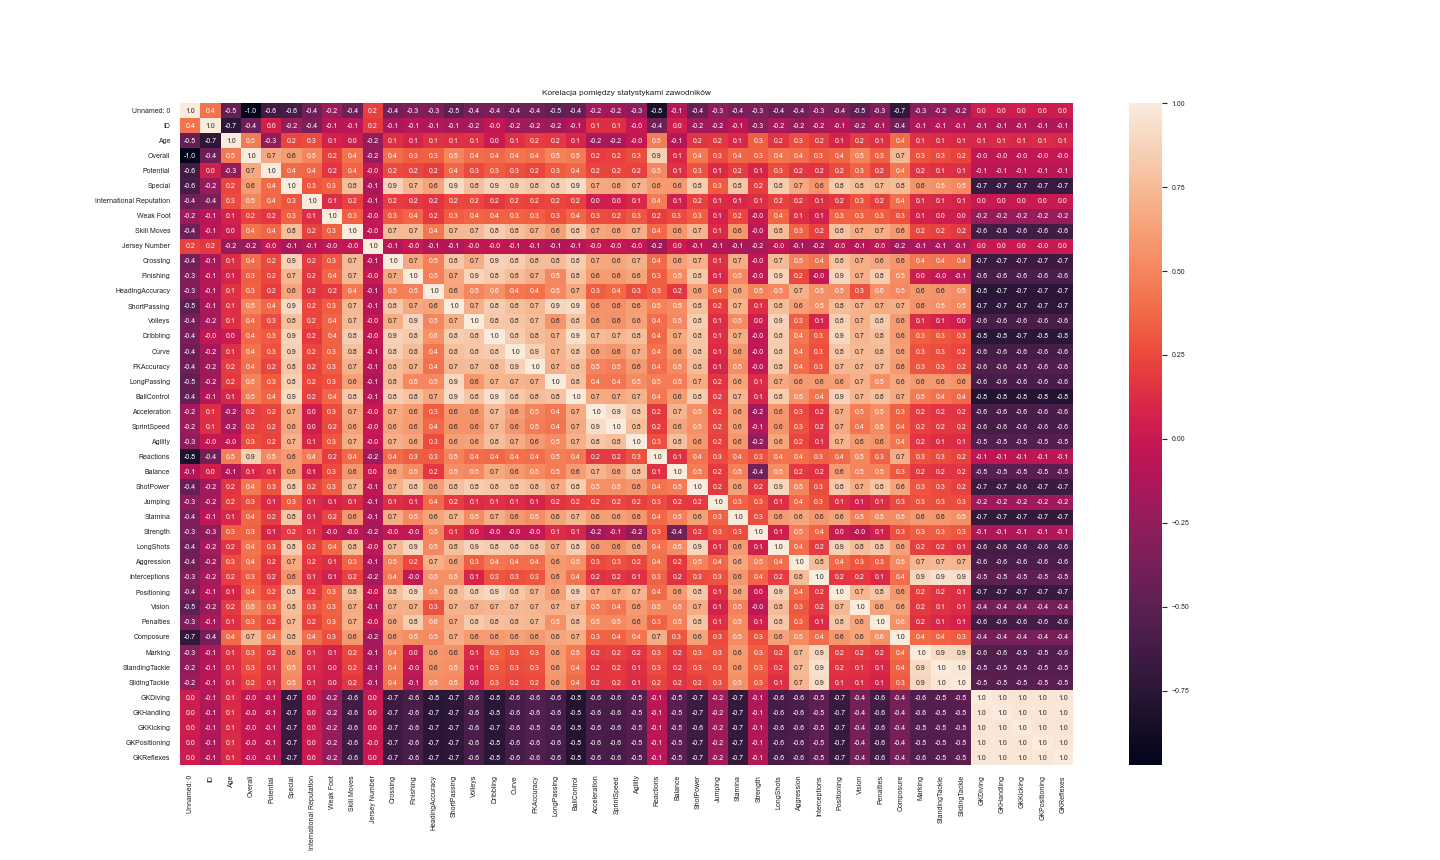
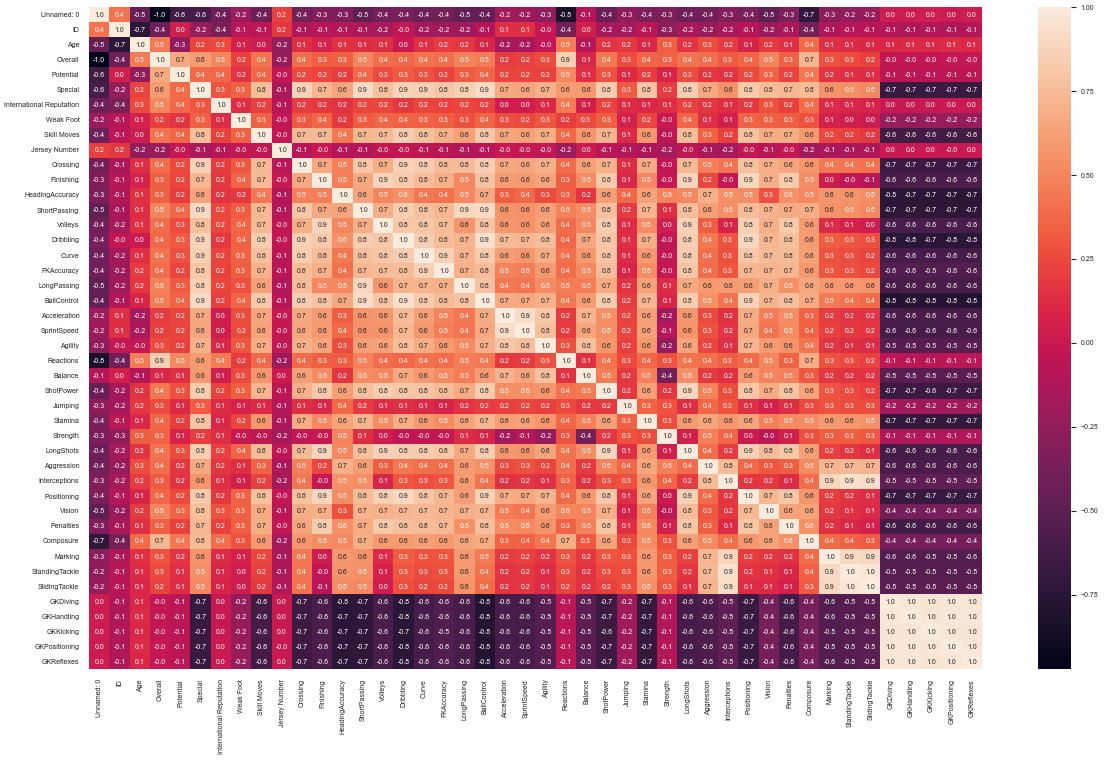
new

diff --git a/Inzynierka/Dane/templates/Dane/dashboard.html b/Inzynierka/Dane/templates/Dane/dashboard.html
@@ -2,12 +2,24 @@
 
 {% block content  %}
         <div id="dashboard">
-        <h1>Praca inżynierska</h1>
-        <h2>Temat: Analiza danych w nowoczesnym futbolu.</h2>
-        <h2>Autor: Mikołaj Bozik</h2>
-        <h3> Opis projektu</h3>
+        <div style="transform:skew(-30deg); width:83%;"><div id="das_left">
+               <div style="padding:2%;"><h2>PRACA INŻYNIERSKA</h2>
+                <hr style=" width: 72%;
+    margin-left: 14%;
+    margin-top: 0;
+    border-color: #B1B1B1;">
+                <h5>Temat: Analiza danych w nowoczesnym futbolu.</h5>
+                <hr style="width:60%; margin-left:20%;">
+                <h5>Autor: Mikołaj Bozik</h5></div>
+        </div></div>
+        <div style="transform:skew(30deg); width:83%; margin-top:1.2%; "><div id="das_right"><div style="padding:4%;">
+        <h5> Opis projektu</h5>
+        <hr style="width:26%; margin-left:1%;">
         <p>Zrealizowanie bazy danych zawierającej informacje o szczegółowych statystykach związanych z czołowymi piłkarzami największych klubów na świecie. <br> Stworzenie algorytmów służących do klasyfikacji i analizy danych.<br> Zaimplementowanie środowiska, które pozwoli wyświetlić efekty i wnioski wyciągnięte poprzez analizę danych za pomocą algorytmów stworzonych w Pythonie.</p>
-        <h3>Technologie</h3>
-        <p>Django<br>Python<br>HTML<br>CSS<br>JavaScript</p>
+        <h5>Technologie</h5><hr style="width:23%; margin-left:1%;">
+        <p>Django, Python, HTML, CSS, JavaScript</p>
+        </div>
+        </div>
+        </div>
         </div>
 {% endblock %}

diff --git a/Inzynierka/static/css/style.css b/Inzynierka/static/css/style.css
@@ -3,7 +3,10 @@
     padding: 0;
     box-sizing: border-box;
 }
-body { min-height: 100vh; }
+body { min-height: 100vh;
+       font-family: 'Open Sans', sans-serif;
+       color: #B1B1B1;
+}
 #logo{
 width:100px;
 }
@@ -66,9 +69,64 @@ width:100px;
 .footer-basic .social > a:hover {
   opacity:0.9;
 }
+/* General */
+#gen_head{
+    text-align:center;
+    background-color:#1B1B1B;
+    border:solid 1px black;
+    width:22%;
+    margin-left:35%;
+    margin-top:1%;
+    border-bottom-width:4px;
+    transform: skew(30deg);
+}
+#gen_head h2{
+    padding-top:2%;
+    transform: skew(-30deg);
+}
+#gen_mid img{
+    width:80%;
+}
+.heat{
+    margin-top:1%;
+   margin-left:5%;
+   width:90%;
+}
 
 /* Dashboard */
 
 #dashboard{
     text-align:center;
+    min-height:100%;
+    margin-top:1.5%;
+}
+#das_left{
+    margin-left: 6%;
+    width: 40%;
+    background: #1B1B1B;
+    border: solid 1px black;
+    padding: 2%;
+    text-align: center;
+
+}
+#das_left div{
+transform: skew(30deg);
+}
+#dashboard hr{
+    margin-top: 0;
+    border-color:#B1B1B1;
+   }
+#das_right{
+    margin-left: 45%;
+    width: 65%;
+    background: #1B1B1B;
+    border: solid 1px black;
+    padding: 10%;
+    font-size:14px;
+      text-align: justify;
+      padding-bottom:2%;
+      padding-top:2%;
+}
+#das_right div{
+transform: skew(-30deg);
 }

diff --git a/Inzynierka/Dane/templates/Dane/general.html b/Inzynierka/Dane/templates/Dane/general.html
@@ -2,9 +2,10 @@
 {% load static %}
 <title>{{ title }}</title>
 {% block content  %}
-        <div id="mid">
-                <h1> Generalna analiza</h1>
-                <img src="{% static 'images/heat_map.png' %}">
+        <div id="gen_mid">
+                <div id="gen_head" ><h2> Generalna analiza</h2></div>
+                <img class="heat" src="{% static 'images/heat_map.png' %}">
+                <div id="gen_text"> TEST TEST TEST TEST</div>
                 <img src="{% static 'images/Kontrola.png' %}">
                 <img src="{% static 'images/pozycje.png' %}">
         </div>

diff --git a/Inzynierka/Dane/templates/Dane/home.html b/Inzynierka/Dane/templates/Dane/home.html
@@ -1,0 +1,13 @@
+{% extends 'Dane/index.html' %}
+{% load static %}
+
+   <title>{{ title }}</title>
+{% autoescape off %}
+   {{ html_table }}
+{% endautoescape %}
+
+{% block content  %}
+
+
+{% endblock %}
+

diff --git a/Inzynierka/Dane/templates/Dane/index.html b/Inzynierka/Dane/templates/Dane/index.html
@@ -18,7 +18,7 @@
 
 
         {% endblock %}
-    <hr>
+
     {% include 'Dane/footer.html' %}
         {% block footer %}
 

diff --git a/Inzynierka/Dane/views.py b/Inzynierka/Dane/views.py
@@ -25,7 +25,7 @@ from django.shortcuts import render
 def home(request):
     return render(
         request,
-        'Dane/index.html',
+        'Dane/home.html',
         {
             'title': "Home",
         }
@@ -54,7 +54,7 @@ def dashboard(request):
         request,
         'Dane/dashboard.html',
         {
-            'title': "Dashboard",
+            'title': "O projekcie",
         }
     )
 
